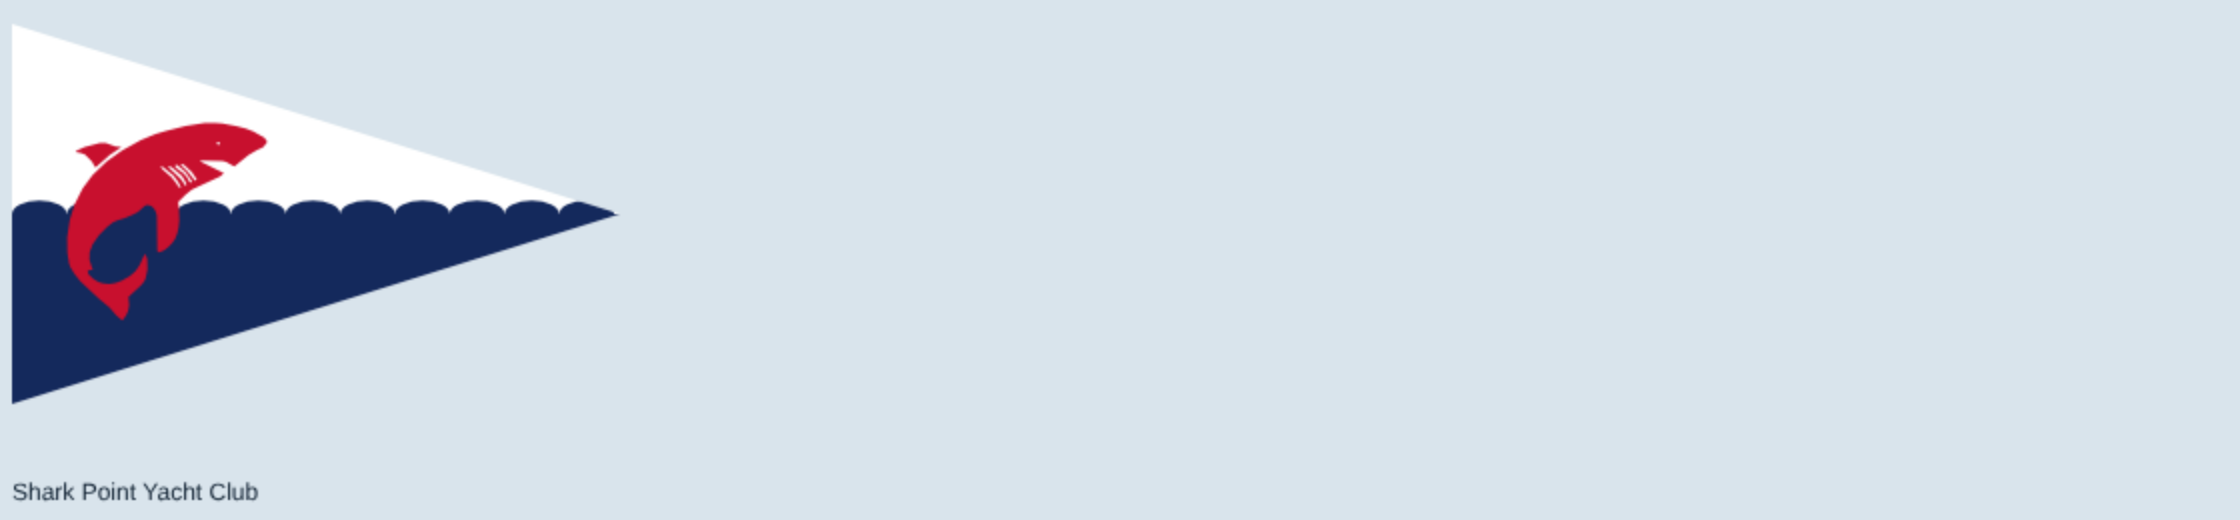
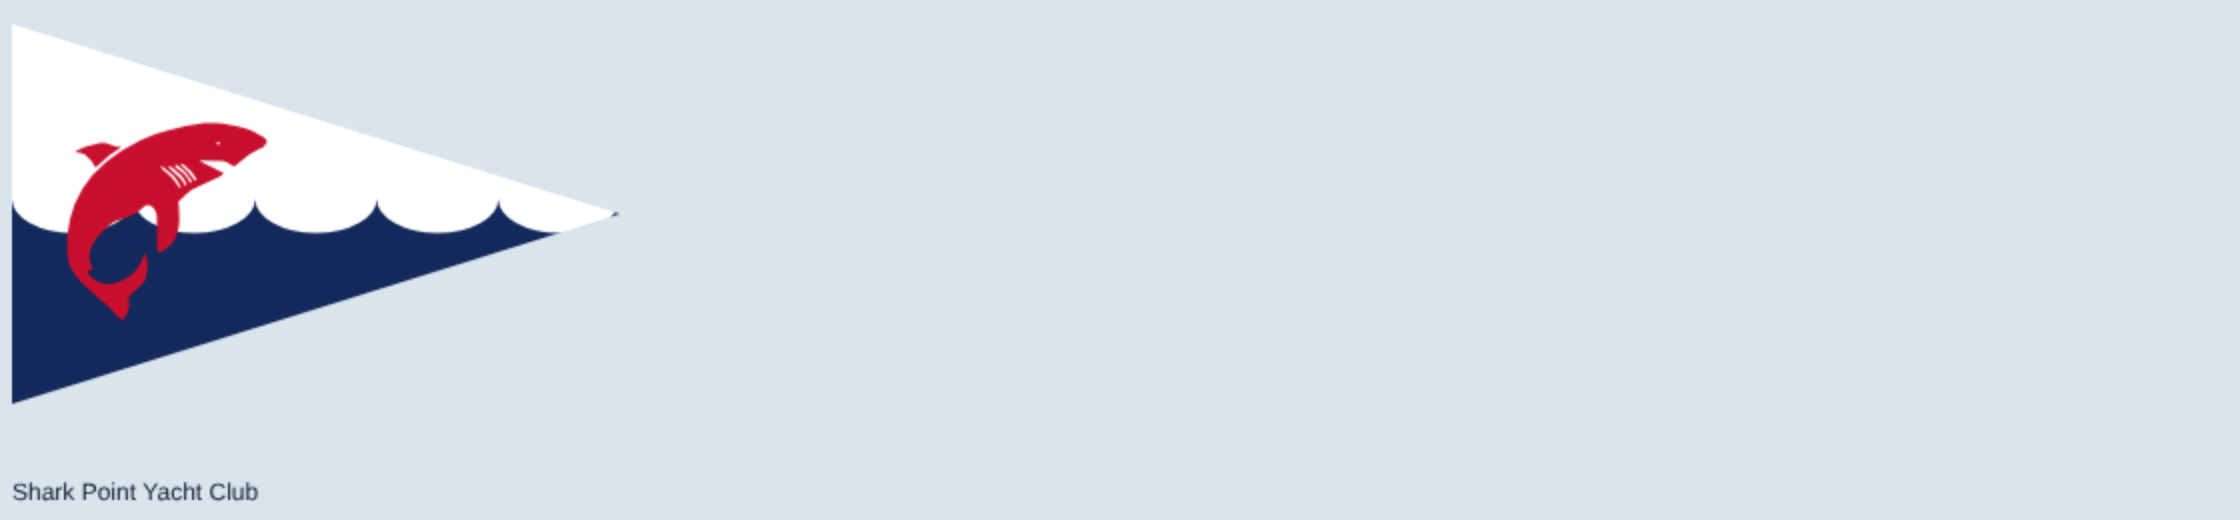
Burgees: Shark Point water line redrawn, sharp crests pointing up, fewer and wider waves
Claude-Session: https://claude.ai/code/session_012Uu5QjYRsEpBxuz7xgHWhs

Changed region(s): [[0.0625, 0.3692, 0.2812, 0.4615], [0.0, 0.3692, 0.0312, 0.4615]]

diff --git a/src/render/burgeeArt.ts b/src/render/burgeeArt.ts
@@ -138,9 +138,12 @@ export const PARODY_BURGEES: Burgee[] = [
         for (let i = 0; i < 6; i++) { const a = (s > 0 ? 72 - i * 21 : 108 + i * 21) * d, grow = a + s * -Math.PI / 2, px = x + Math.cos(a) * r, py = y + Math.sin(a) * r, k = 1 - i * 0.07;
           for (const t of [-1, 1]) leaf(px, py, grow + t * 0.8, H * 0.085 * k, H * 0.028 * k); }
         const e = (s > 0 ? -34 : 214) * d; leaf(x + Math.cos(e) * r, y + Math.sin(e) * r, e + s * -Math.PI / 2, H * 0.07, H * 0.022); } } },
-  { id: 'tyc', shape: 'pennant', ratio: 1.6, // Shark Point (to flag for IP review: the layout is the real club's, the shark the Town of Tiburon seal's): white above a scalloped water line, navy water below, one red shark across the line at the hoist
-    draw: (g, W, H) => { fill(g, W, H, WHITE); rect(g, '#14295c', 0, H * 0.5, W, H * 0.5);
-      const rx = W * 0.045; for (let i = 0; i < 11; i++) { g.fillStyle = '#14295c'; g.beginPath(); g.ellipse(rx * (2 * i + 1), H * 0.5, rx, H * 0.035, 0, Math.PI, 2 * Math.PI); g.fill(); }
+  { id: 'tyc', shape: 'pennant', ratio: 1.6, // Shark Point (to flag for IP review: the layout is the real club's, the shark the Town of Tiburon seal's): white above a water line of sharp crests, navy water below, one red shark across the line at the hoist
+    draw: (g, W, H) => { fill(g, W, H, WHITE);
+      // The water line: sharp crests pointing up, wide rounded troughs between them
+      const per = W * 0.2, top = H * 0.46, dip = H * 0.09; g.fillStyle = '#14295c'; g.beginPath(); g.moveTo(0, top);
+      for (let i = 0; i < 6; i++) g.ellipse(per * (i + 0.5), top, per / 2, dip, 0, Math.PI, 0, true);
+      g.lineTo(W * 1.2, H); g.lineTo(0, H); g.closePath(); g.fill();
       shark(g, W * 0.255, H * 0.52, H * 0.52, '#c8102e'); } },
   { id: 'pyc', shape: 'pennant', ratio: 1.5, // modern-formal: navy, gold, a red band; one horseshoe, symmetrical
     draw: (g, W, H) => { fill(g, W, H, NAVY); rect(g, RED, W * 0.58, 0, W * 0.42, H); const x = W * 0.25, y = H * 0.42, r = H * 0.15; stroke(g, GOLD, H * 0.1, [x - r, y - H * 0.14], [x - r, y]); stroke(g, GOLD, H * 0.1, [x + r, y - H * 0.14], [x + r, y]); arc(g, GOLD, H * 0.1, x, y, r, 0, Math.PI); } },
